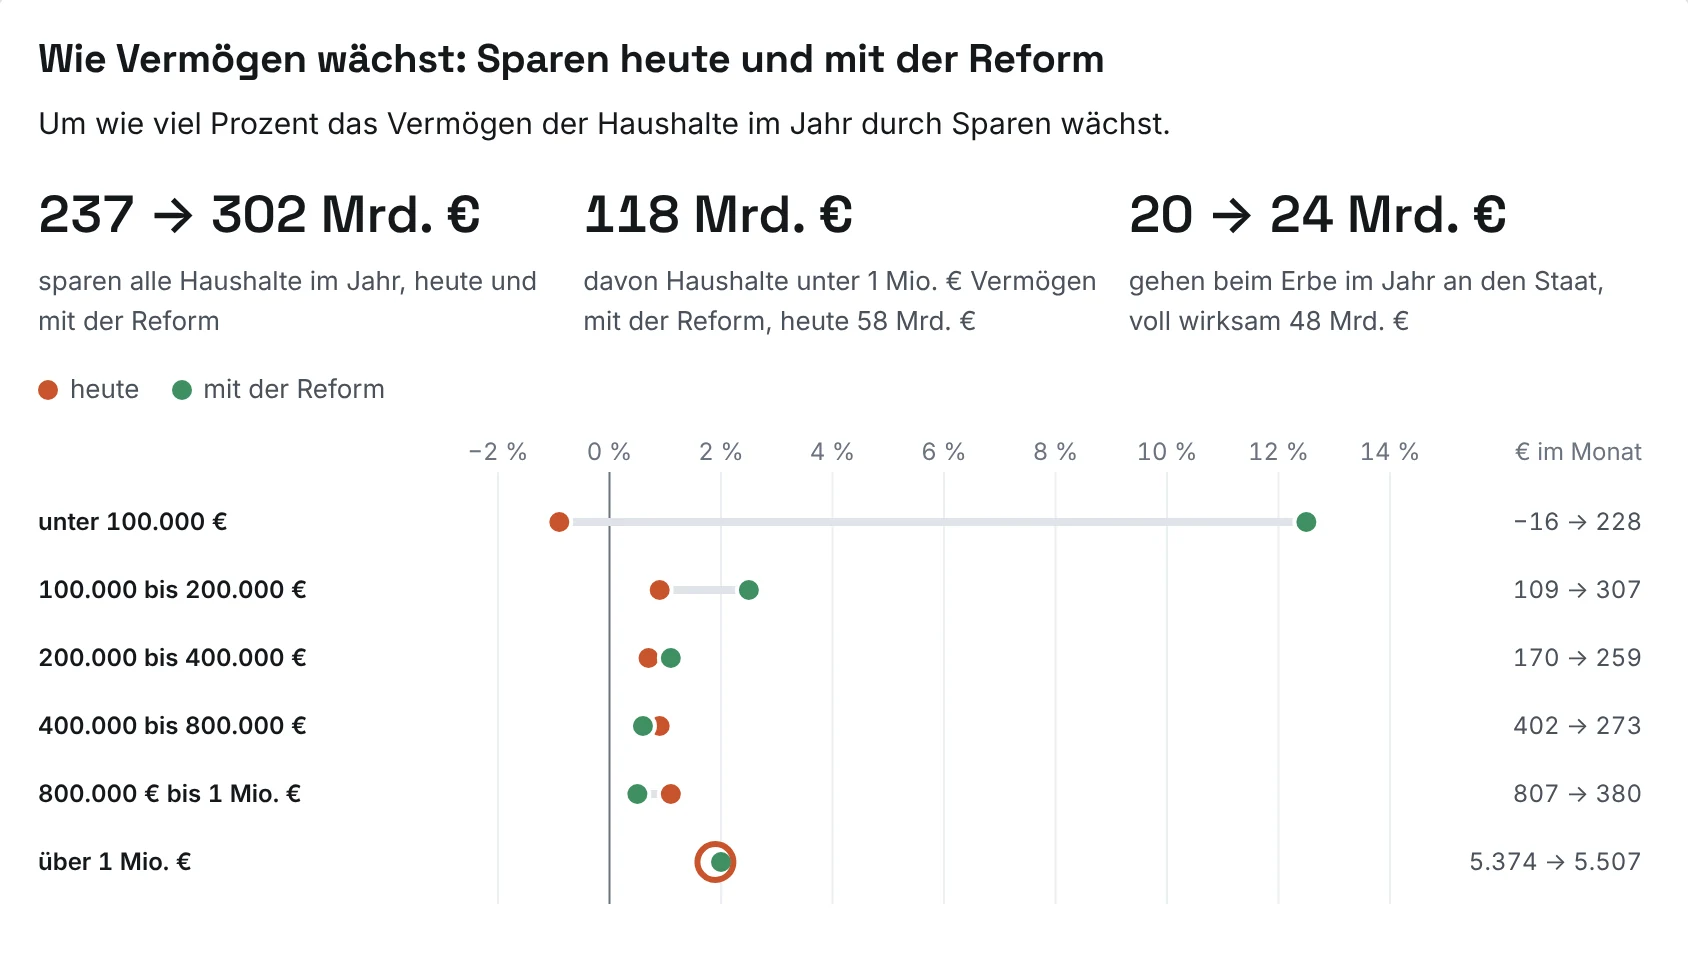
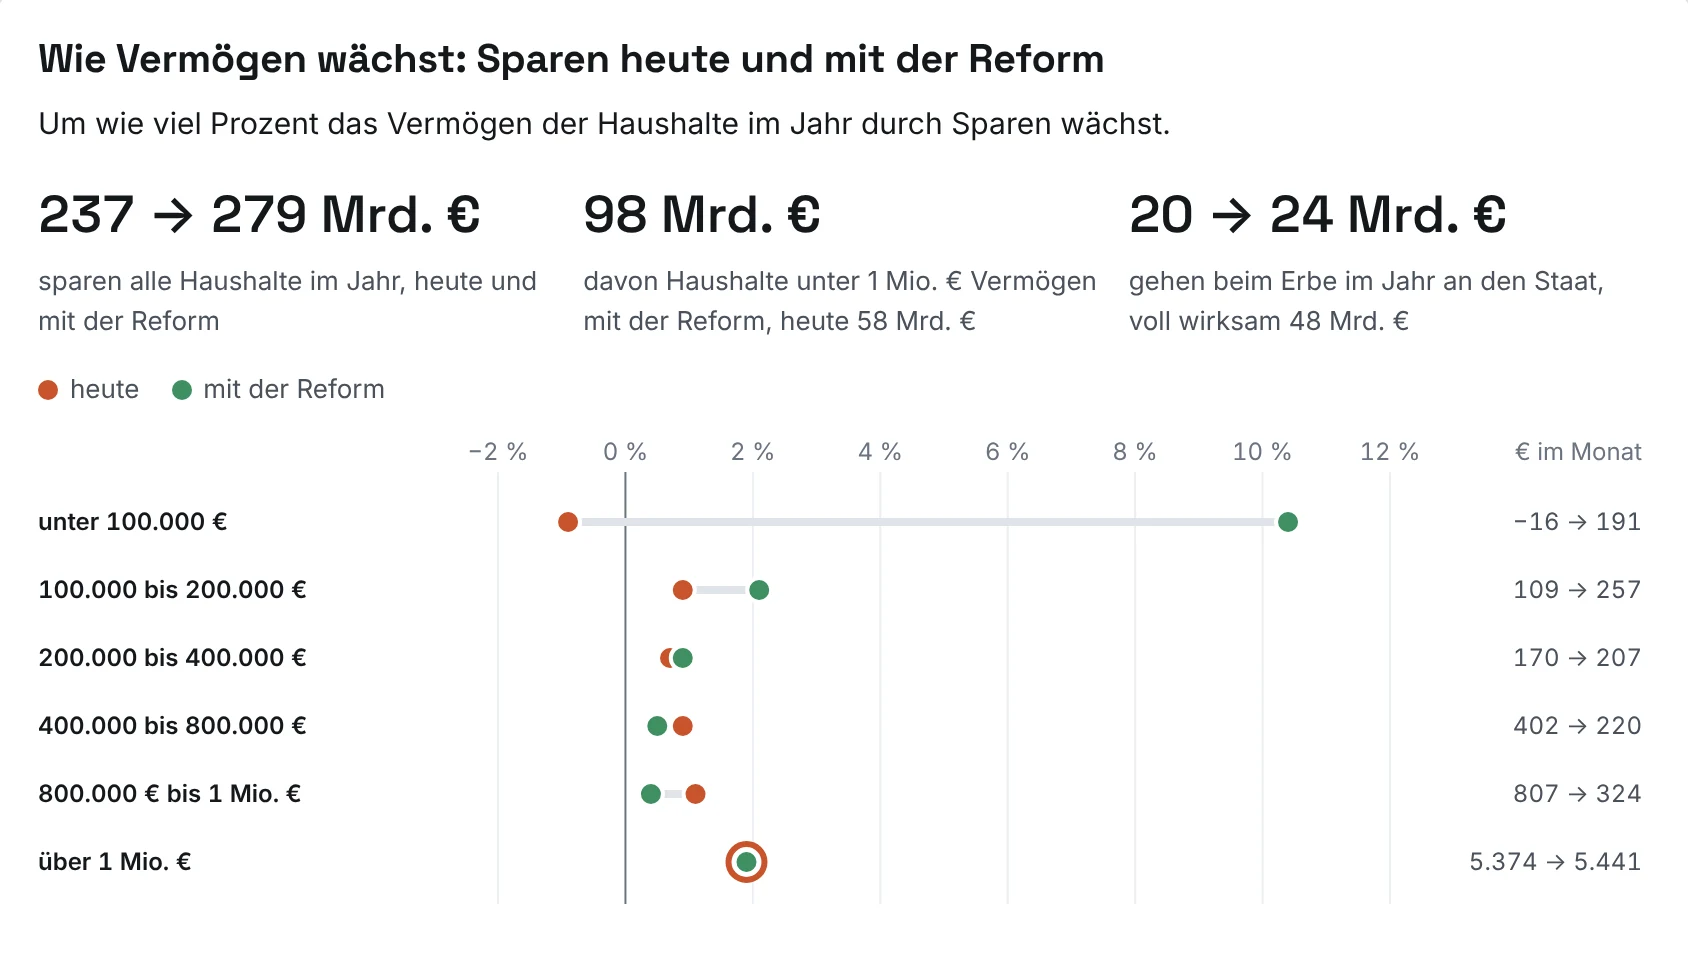
Steuerlast-Seite: Stand 13:05 (Freibetrag 1.150 €), Prüfung der Spanne
Claude-Session: https://claude.ai/code/session_012Y93VcoN35D38RtTTtR6vF

diff --git a/steuerlast/index.html b/steuerlast/index.html
@@ -37,38 +37,38 @@
 </div></section>
 <div class="wrap sl">
 <div class="facts">
-<div><b>76,5 %</b><span>der Haushalte haben mehr Geld als heute, wenn sie so viel einkaufen wie heute.</span></div>
-<div><b>18,1 → 7,3 %</b><span>vom Einkommen zahlt das ärmste Zehntel an Steuern und Abgaben, heute und mit der Reform.</span></div>
-<div><b>37,8 → 40,3 %</b><span>aller Steuern und Abgaben der Haushalte trägt das reichste Zehntel, heute und mit der Reform.</span></div>
+<div><b>72,9 %</b><span>der Haushalte haben mehr Geld als heute, wenn sie so viel einkaufen wie heute.</span></div>
+<div><b>18,1 → 7,6 %</b><span>vom Einkommen zahlt das ärmste Zehntel an Steuern und Abgaben, heute und mit der Reform.</span></div>
+<div><b>37,8 → 39,9 %</b><span>aller Steuern und Abgaben der Haushalte trägt das reichste Zehntel, heute und mit der Reform.</span></div>
 </div>
 <figure id="steuerlast-feld-einkommen-vermoegen">
 <a href="../bilder/steuerlast/steuerlast-feld-einkommen-vermoegen.webp" title="Wer hat mehr Geld, wer weniger: Grafik groß öffnen"><img src="../bilder/steuerlast/steuerlast-feld-einkommen-vermoegen.webp" width="1688" height="1362" loading="lazy" alt="Farbfeld nach Einkommen und Vermögen: Bis rund 310.000 € Vermögen haben fast alle Gruppen mehr Geld als heute, zwischen 310.000 und 490.000 € bleibt es fast gleich, darüber haben die Gruppen weniger."></a>
 <figcaption>Jedes Feld ist eine Gruppe von Haushalten. Nach rechts steigt das Einkommen, nach unten das Vermögen. Grün heißt: Die Haushalte haben im Mittel mehr Geld als heute, in Prozent ihres Einkommens. Rot heißt: weniger. Bis rund 310.000 € Vermögen ist fast alles grün, zwischen 310.000 und 490.000 € bleibt es fast gleich, weniger haben vor allem Haushalte mit mehr als 490.000 € Vermögen. Auch in grünen Feldern haben einzelne Haushalte weniger. Schraffierte Felder: zu wenige Haushalte für eine Aussage.</figcaption>
 </figure>
 <figure id="steuerlast-nach-einkommen">
-<a href="../bilder/steuerlast/steuerlast-nach-einkommen.webp" title="Wie viel vom Einkommen an Steuern und Abgaben geht: Grafik groß öffnen"><img src="../bilder/steuerlast/steuerlast-nach-einkommen.webp" width="1688" height="982" loading="lazy" alt="Punktgrafik nach Einkommenszehnteln: Das unterste Zehntel zahlt 7,3 statt 18,1 % seines Einkommens, das oberste 40,5 statt 40,2 %."></a>
-<figcaption>Zehn gleich große Gruppen von je 4,1 Mio. Haushalten, geordnet nach dem Einkommen vor Steuern (Löhne, Gewinne, Renten, Kapitalerträge, Grundsicherung). Die Zahl hinter der Gruppe ist ihr mittleres Einkommen im Monat, die Punkte zeigen den Durchschnitt der Gruppe. Das unterste Zehntel zahlt 7,3 statt 18,1 % seines Einkommens, das oberste 40,5 statt 40,2 %. „Mit weniger“ zählt die Haushalte der Gruppe, die trotzdem weniger haben als heute (bei gleichem Einkauf, ohne Erbe).</figcaption>
+<a href="../bilder/steuerlast/steuerlast-nach-einkommen.webp" title="Wie viel vom Einkommen an Steuern und Abgaben geht: Grafik groß öffnen"><img src="../bilder/steuerlast/steuerlast-nach-einkommen.webp" width="1688" height="982" loading="lazy" alt="Punktgrafik nach Einkommenszehnteln: Das unterste Zehntel zahlt 7,6 statt 18,1 % seines Einkommens, das oberste 40,9 statt 40,2 %."></a>
+<figcaption>Zehn gleich große Gruppen von je 4,1 Mio. Haushalten, geordnet nach dem Einkommen vor Steuern (Löhne, Gewinne, Renten, Kapitalerträge, Grundsicherung). Die Zahl hinter der Gruppe ist ihr mittleres Einkommen im Monat, die Punkte zeigen den Durchschnitt der Gruppe. Das unterste Zehntel zahlt 7,6 statt 18,1 % seines Einkommens, das oberste 40,9 statt 40,2 %. „Mit weniger“ zählt die Haushalte der Gruppe, die trotzdem weniger haben als heute (bei gleichem Einkauf, ohne Erbe).</figcaption>
 </figure>
 <figure id="steuerlast-anteile">
-<a href="../bilder/steuerlast/steuerlast-anteile.webp" title="Wie viel vom Ganzen jede Gruppe trägt: Grafik groß öffnen"><img src="../bilder/steuerlast/steuerlast-anteile.webp" width="1688" height="722" loading="lazy" alt="Balken: Das oberste Zehntel trägt 40,3 statt 37,8 % aller Steuern und Abgaben der Haushalte, die untere Hälfte 14,3 statt 15,7 %."></a>
-<figcaption>Alle Haushalte zahlen mit der Reform 1.030 Mrd. € im Jahr, heute 1.091 Mrd. €. Das oberste Zehntel trägt mehr vom Ganzen als heute, 40,3 statt 37,8 %. Das oberste Prozent trägt 12,0 statt 12,3 %, wenn das Erbe voll wirkt 12,5 %: Es spart viel und zahlt vor allem über das Erbe.</figcaption>
+<a href="../bilder/steuerlast/steuerlast-anteile.webp" title="Wie viel vom Ganzen jede Gruppe trägt: Grafik groß öffnen"><img src="../bilder/steuerlast/steuerlast-anteile.webp" width="1688" height="722" loading="lazy" alt="Balken: Das oberste Zehntel trägt 39,9 statt 37,8 % aller Steuern und Abgaben der Haushalte, die untere Hälfte 14,4 statt 15,7 %."></a>
+<figcaption>Alle Haushalte zahlen mit der Reform 1.053 Mrd. € im Jahr, heute 1.091 Mrd. €. Das oberste Zehntel trägt mehr vom Ganzen als heute, 39,9 statt 37,8 %. Das oberste Prozent trägt 11,8 statt 12,3 %, wenn das Erbe voll wirkt 12,3 %: Es spart viel und zahlt vor allem über das Erbe.</figcaption>
 </figure>
 <figure id="steuerlast-nach-vermoegen">
-<a href="../bilder/steuerlast/steuerlast-nach-vermoegen.webp" title="Wie viel vom Einkommen nach Vermögen geht: Grafik groß öffnen"><img src="../bilder/steuerlast/steuerlast-nach-vermoegen.webp" width="1688" height="702" loading="lazy" alt="Punktgrafik nach Vermögen: Haushalte unter 100.000 € Vermögen zahlen 6,3 Punkte weniger von ihrem Einkommen, Haushalte zwischen 400.000 € und 1 Mio. € mehr."></a>
+<a href="../bilder/steuerlast/steuerlast-nach-vermoegen.webp" title="Wie viel vom Einkommen nach Vermögen geht: Grafik groß öffnen"><img src="../bilder/steuerlast/steuerlast-nach-vermoegen.webp" width="1688" height="702" loading="lazy" alt="Punktgrafik nach Vermögen: Haushalte unter 100.000 € Vermögen zahlen 5,3 Punkte weniger von ihrem Einkommen, Haushalte zwischen 400.000 € und 1 Mio. € mehr."></a>
 <figcaption>Gruppen nach Nettovermögen. Mehr zahlen vor allem Haushalte mit eigenem Haus, das noch nicht abbezahlt ist: Auf den Mietwert des unbezahlten Teils fällt Ausgabensteuer an, ebenso auf ausgegebene Zinsen und Mieten. Der beim Start bezahlte Teil des Hauses und Ausgaben aus versteuertem Ersparten bleiben frei.</figcaption>
 </figure>
 <figure id="wer-bezahlt-einkommen-vermoegen">
-<a href="../bilder/steuerlast/wer-bezahlt-einkommen-vermoegen.webp" title="Welche Einkommen und Vermögen die Reform bezahlen: Grafik groß öffnen"><img src="../bilder/steuerlast/wer-bezahlt-einkommen-vermoegen.webp" width="1688" height="1122" loading="lazy" alt="Balken nach Einkommens- und Vermögensart: Auf Löhne fallen 66,1 Mrd. € weniger, auf Gewinne eigener Firmen 12,1 Mrd. € mehr, auf vererbte Firmen 5,7 Mrd. € mehr."></a>
-<figcaption>Wie viel mehr oder weniger Steuern und Abgaben im Jahr auf jede Art von Einkommen und Vermögen fallen als heute, in Milliarden Euro. Auf Löhne fallen 66,1 Mrd. € weniger, auf Gewinne eigener Firmen 12,1 Mrd. € mehr. Beim Erbe zahlen Firmen 5,7 Mrd. € mehr, 13,0 Mrd. €, wenn der Staatsanteil am Erbe voll wirkt: Heute sind vererbte Firmen zu 85 % verschont, mit der Reform zählt alles voll. Zusammen tragen die Haushalte 61 Mrd. € weniger als heute, 23 Mrd. € davon ist der Ausgleich für heutige Rentner (bis 300 € im Monat) und 10 € im Monat je Erwachsenem. Steuern von Firmen, die nicht den Haushalten gehören, sind nicht enthalten.</figcaption>
+<a href="../bilder/steuerlast/wer-bezahlt-einkommen-vermoegen.webp" title="Welche Einkommen und Vermögen die Reform bezahlen: Grafik groß öffnen"><img src="../bilder/steuerlast/wer-bezahlt-einkommen-vermoegen.webp" width="1688" height="1122" loading="lazy" alt="Balken nach Einkommens- und Vermögensart: Auf Löhne fallen 48,5 Mrd. € weniger, auf Gewinne eigener Firmen 14,1 Mrd. € mehr, auf vererbte Firmen 5,7 Mrd. € mehr."></a>
+<figcaption>Wie viel mehr oder weniger Steuern und Abgaben im Jahr auf jede Art von Einkommen und Vermögen fallen als heute, in Milliarden Euro. Auf Löhne fallen 48,5 Mrd. € weniger, auf Gewinne eigener Firmen 14,1 Mrd. € mehr. Beim Erbe zahlen Firmen 5,7 Mrd. € mehr, 13,0 Mrd. €, wenn der Staatsanteil am Erbe voll wirkt: Heute sind vererbte Firmen zu 85 % verschont, mit der Reform zählt alles voll. Zusammen tragen die Haushalte 38 Mrd. € weniger als heute, 23 Mrd. € davon ist der Ausgleich für heutige Rentner (bis 300 € im Monat) und 10 € im Monat je Erwachsenem. Steuern von Firmen, die nicht den Haushalten gehören, sind nicht enthalten.</figcaption>
 </figure>
 <figure id="vermoegen-sparen">
-<a href="../bilder/steuerlast/vermoegen-sparen.webp" title="Wie Vermögen wächst: Grafik groß öffnen"><img src="../bilder/steuerlast/vermoegen-sparen.webp" width="1688" height="962" loading="lazy" alt="Punktgrafik zum Sparen nach Vermögen: Haushalte unter 100.000 € Vermögen sparen mit der Reform 228 € im Monat, heute −16 €."></a>
-<figcaption>Um wie viel Prozent das Vermögen der Haushalte im Jahr durch Sparen wächst. Haushalte mit weniger als 100.000 € Vermögen sparen heute im Mittel −16 € im Monat, mit der Reform 228 €, also 5,8 % statt −0,4 % ihres Einkommens. Weil sie im Mittel nur 21.926 € besitzen, wirkt das als großer Sprung beim Wachstum des Vermögens. Gespart wird, was vom Einkommen nach Steuern und Abgaben bleibt, wenn der Haushalt so viel einkauft wie heute; was er mehr hat, legt er in dieser Rechnung ganz zurück. Nicht enthalten: Wertsteigerung von Häusern und Aktien, Erbschaften und Schenkungen.</figcaption>
+<a href="../bilder/steuerlast/vermoegen-sparen.webp" title="Wie Vermögen wächst: Grafik groß öffnen"><img src="../bilder/steuerlast/vermoegen-sparen.webp" width="1688" height="962" loading="lazy" alt="Punktgrafik zum Sparen nach Vermögen: Haushalte unter 100.000 € Vermögen sparen mit der Reform 191 € im Monat, heute −16 €."></a>
+<figcaption>Um wie viel Prozent das Vermögen der Haushalte im Jahr durch Sparen wächst. Haushalte mit weniger als 100.000 € Vermögen sparen heute im Mittel −16 € im Monat, mit der Reform 191 €, also 4,9 % statt −0,4 % ihres Einkommens. Weil sie im Mittel nur 21.926 € besitzen, wirkt das als großer Sprung beim Wachstum des Vermögens. Gespart wird, was vom Einkommen nach Steuern und Abgaben bleibt, wenn der Haushalt so viel einkauft wie heute; was er mehr hat, legt er in dieser Rechnung ganz zurück. Nicht enthalten: Wertsteigerung von Häusern und Aktien, Erbschaften und Schenkungen.</figcaption>
 </figure>
 <div class="methode">
 <h2>Wie gerechnet wurde</h2>
 <p>Rund 49.000 künstliche Haushalte stehen für alle 41 Mio. Haushalte in Deutschland. Sie sind auf amtliche Zahlen geeicht: Löhne und Konsum aus der Volkswirtschaftlichen Gesamtrechnung 2025, Lohn- und Einkommensteuer aus den Steuereinnahmen 2025, Vermögen aus der Vermögensbefragung der Bundesbank 2023 mit einer Zuschätzung der Reichsten, Sparen aus der Einkommens- und Verbrauchsstichprobe.</p>
-<p>Heute: Lohn- und Einkommensteuer mit Soli, Sozialbeiträge, Abgeltungsteuer, Körperschaftsteuer auf eigene Firmen, Mehrwertsteuer, Erbschaft- und Schenkungsteuer. Mit der Reform: Ausgabensteuer über dem Freibetrag, höhere Mehrwertsteuer auf denselben Einkauf, die verbleibenden Beiträge und der Staatsanteil am Erbe, abzüglich der Auszahlungen an die Haushalte. Das Erbe zählt als erwartete Steuer im Jahr. Wie jede Schätzung hängt das Ergebnis an Annahmen: Im gezeigten Fall haben 9,7 Mio. Haushalte weniger als heute, mit anderen vertretbaren Eichungen sind es 8,7 bis 13,3 Mio. Jeden einzelnen Haushalt rechnet der <a href="../steuerrechner/">Steuerrechner</a> nach, die ganze Rechnung steht im <a href="../buch/">Buch</a>.</p>
+<p>Heute: Lohn- und Einkommensteuer mit Soli, Sozialbeiträge, Abgeltungsteuer, Körperschaftsteuer auf eigene Firmen, Mehrwertsteuer, Erbschaft- und Schenkungsteuer. Mit der Reform: Ausgabensteuer über dem Freibetrag, höhere Mehrwertsteuer auf denselben Einkauf, die verbleibenden Beiträge und der Staatsanteil am Erbe, abzüglich der Auszahlungen an die Haushalte. Das Erbe zählt als erwartete Steuer im Jahr. Wie jede Schätzung hängt das Ergebnis an Annahmen: Im gezeigten Fall haben 11,1 Mio. Haushalte weniger als heute, mit anderen vertretbaren Eichungen sind es 9,7 bis 15,1 Mio. Jeden einzelnen Haushalt rechnet der <a href="../steuerrechner/">Steuerrechner</a> nach, die ganze Rechnung steht im <a href="../buch/">Buch</a>.</p>
 </div>
 </div>
 </main>

diff --git a/werkzeug/steuerlast-seite.py b/werkzeug/steuerlast-seite.py
@@ -13,7 +13,8 @@ Z = J['zehntel']; ein = {a['art'] if 'art' in a else a['name']: a for a in J['ar
 def diff(name, lang=False, liste='einkommen'):
     a = next(a for a in J['arten'][liste] if a['name'] == name)
     return a['reform_lang_mrd' if lang else 'reform_mrd'] - a['heute_mrd']
-sp = re.search(r'Version 32 ([0-9,]+) bis ([0-9,]+) Mio', UB['spanne'])
+sp = re.search(r'Version 32 ([0-9,]+) bis ([0-9,]+) Mio\. \(Standard ([0-9,]+)\)', UB['spanne'])
+assert sp.group(3) == f"{J['weniger_mio']:.1f}".replace('.', ','), ('Spanne passt nicht zu steuerlast.json', sp.group(3), J['weniger_mio'])
 N = dict(
  mehr=k(J['mehr_prozent']), weniger=k(J['weniger_mio']), sp1=sp.group(1), sp2=sp.group(2),
  z1h=k(Z[0]['quote_heute']), z1r=k(Z[0]['quote_reform']), z10h=k(Z[9]['quote_heute']), z10r=k(Z[9]['quote_reform']),
